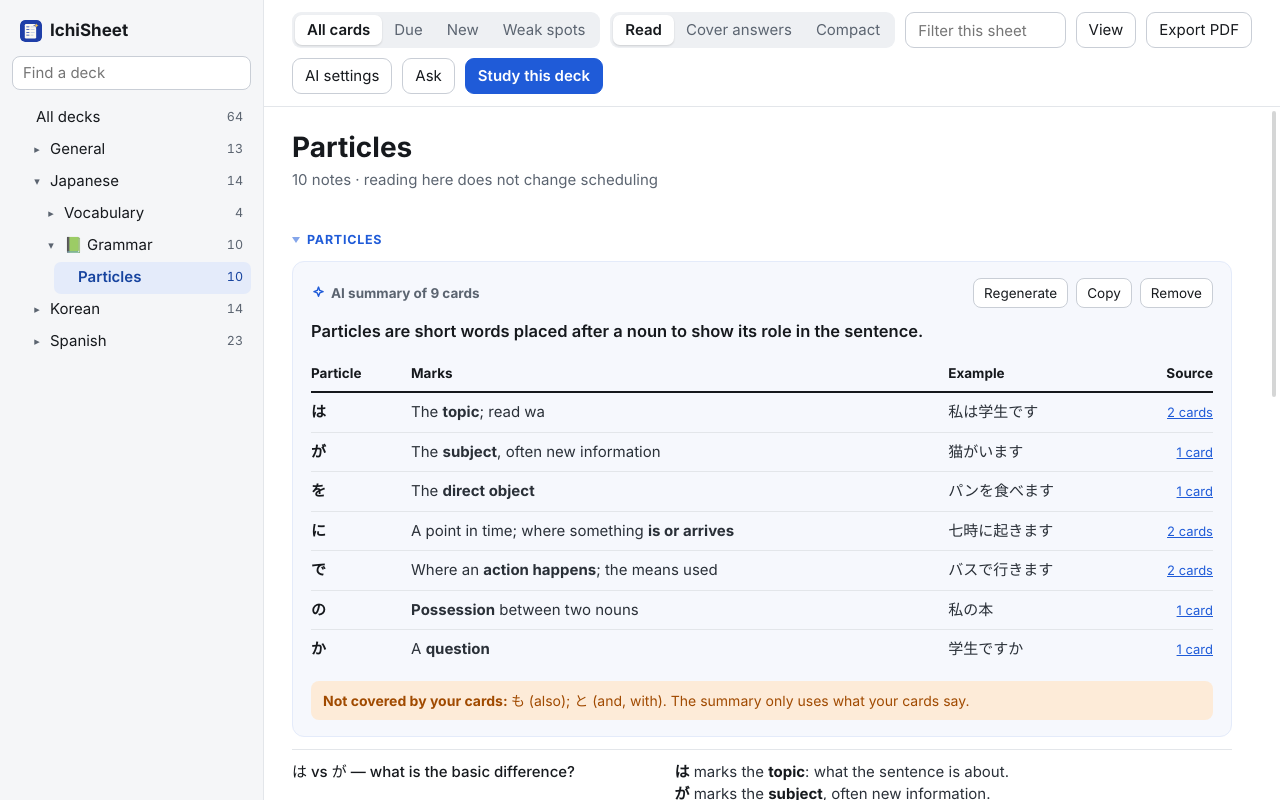
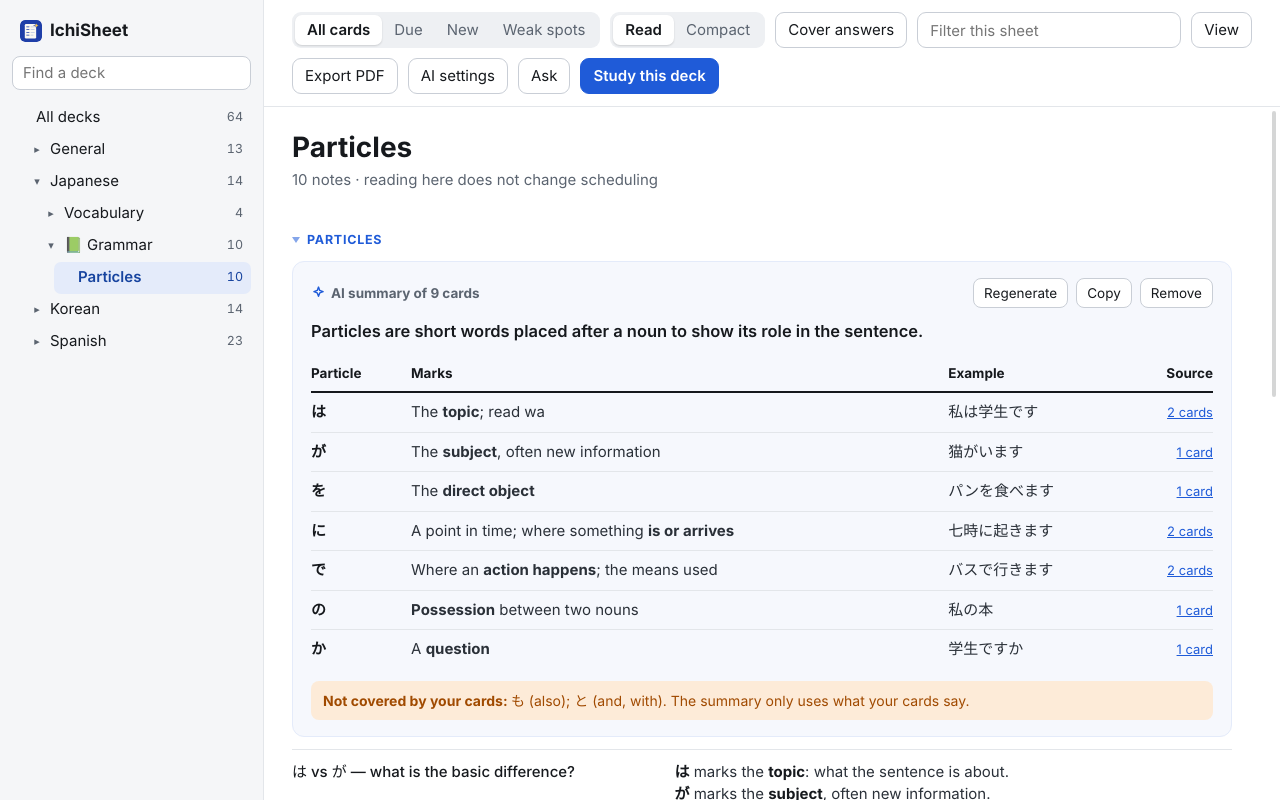
IchiSheet 1.2.0
Cover answers works in Compact, About card from the logo, optional Confetti mode, quieter footer, restart note after updates.

Claude-Session: https://claude.ai/code/session_0131ku1EZf9DxhiT72YsnyNj

diff --git a/anki_sheets/web/sheet.js b/anki_sheets/web/sheet.js
@@ -1,12 +1,12 @@
 var Sheets = (function () {
   var VIEW_DEFAULTS = { ticks: false, hideTicked: false, density: "comfortable", emphasis: "question",
-                        theme: "anki", notesOpen: false, split: null, side: null, page: null };
+                        theme: "anki", notesOpen: false, split: null, side: null, page: null, confetti: false };
   var S = { tree: [], deck: null, scope: "all", mode: "read", groups: {}, limit: null,
             filter: "", deckFilter: "", open: {}, data: null, view: Object.assign({}, VIEW_DEFAULTS), viewOpen: false,
             ai: { enabled: false, ready: false, never_send_decks: [], max_cards: 200 },
             fold: {}, askOpen: false, chat: [], strict: false, cond: {}, pending: {}, seq: 0 };
   var SCOPES = [["all", "All cards"], ["due", "Due"], ["new", "New"], ["weak", "Weak spots"]];
-  var MODES = [["read", "Read"], ["cover", "Cover answers"], ["compact", "Compact"]];
+  var MODES = [["read", "Read"], ["compact", "Compact"]];
   var DENSITY = [["comfortable", "Comfortable"], ["tight", "Tight"]];
   var EMPHASIS = [["question", "Bold question"], ["tint", "Tinted question"], ["answer", "Bold answer"]];
   var THEMES = [["anki", "Match Anki"], ["paper", "Paper"], ["contrast", "High contrast"]];
@@ -102,7 +102,36 @@ var Sheets = (function () {
     '<g fill="#1f3fa8"><rect x="144" y="150" width="78" height="18" rx="9"/><rect x="144" y="214" width="78" height="18" rx="9"/><rect x="144" y="278" width="78" height="18" rx="9"/><rect x="144" y="342" width="78" height="18" rx="9"/></g>' +
     '<g fill="#b9c3de"><rect x="244" y="150" width="100" height="18" rx="9"/><rect x="244" y="214" width="100" height="18" rx="9"/><rect x="244" y="278" width="100" height="18" rx="9"/><rect x="244" y="342" width="72" height="18" rx="9"/></g>' +
     '<path d="M384 62 C392 108 404 120 450 128 C404 136 392 148 384 194 C376 148 364 136 318 128 C364 120 376 108 384 62 Z" fill="#ffc94a" stroke="#1f3fa8" stroke-width="12" stroke-linejoin="round"/></svg>';
-  function brand() { return h("h1", { class: "brand" }, h("span", { html: LOGO }), "IchiSheet"); }
+  function brand() {
+    return h("h1", { class: "brand" },
+      h("button", { class: "brandbtn", type: "button", id: "about", title: "About IchiSheet", onclick: openAbout },
+        h("span", { html: LOGO }), "IchiSheet"));
+  }
+  function extLink(to, label, tip) {
+    return h("a", { href: "#", title: tip, onclick: function (e) { e.preventDefault(); call("link", { to: to }); } }, label);
+  }
+  // A small "about" card, opened from the logo.
+  function openAbout() {
+    if (app.querySelector(".about")) return;
+    function close() { overlay.remove(); var b = document.getElementById("about"); if (b) b.focus(); }
+    var overlay = h("div", { class: "overlay", onclick: function (e) { if (e.target === overlay) close(); },
+      onkeydown: function (e) { if (e.key === "Escape") { e.preventDefault(); e.stopPropagation(); close(); } } },
+      h("div", { class: "modal about", role: "dialog", "aria-modal": "true", "aria-labelledby": "about-title" },
+        h("div", { class: "about-logo", html: LOGO }),
+        h("h2", { id: "about-title", text: "IchiSheet" }),
+        h("p", { class: "about-made", text: "Made by StarHug" + (S.version ? " · version " + S.version : "") }),
+        h("p", { class: "about-say" }, "Your whole deck on one sheet. “Ichi” is Japanese for “one”."),
+        h("p", { class: "about-say" }, "IchiSheet is free. If it helps you study, you can ",
+          extLink("support", "buy me a coffee", "Opens my Ko-fi page"), " or ",
+          extLink("rate", "rate it on AnkiWeb", "A thumbs up on AnkiWeb helps other students find IchiSheet"), "."),
+        h("p", { class: "about-small" },
+          extLink("issues", "Found a bug?", "Opens the issue page on GitHub"), " · ",
+          extLink("source", "Source code", "Opens the project on GitHub"), " · Open source, AGPL-3.0-or-later"),
+        h("div", { class: "modal-foot" },
+          h("button", { class: "btn primary", type: "button", id: "about-close", onclick: close }, "Close"))));
+    app.appendChild(overlay);
+    document.getElementById("about-close").focus();
+  }
   function title() { return S.home ? "IchiSheet" : S.deck ? S.deck.split("::").pop() : "All decks"; }
   function allRows() {
     var out = [];
@@ -179,7 +208,7 @@ var Sheets = (function () {
   }
 
   function mainClass() {
-    return "main mode-" + S.mode + " em-" + S.view.emphasis +
+    return "main mode-" + S.mode + (S.cover ? " mode-cover" : "") + " em-" + S.view.emphasis +
       (S.view.density === "tight" ? " dense" : "") + (S.view.ticks ? " ticks-on" : "");
   }
 
@@ -358,6 +387,9 @@ var Sheets = (function () {
       checkV("ticks", "Review ticks", "v-ticks",
         "Adds a tick box to every row so you can check off what you have read. Does not affect Anki's scheduling.",
         function () { renderSheet(true); }),
+      checkV("confetti", "Confetti", "v-confetti",
+        "A little burst of confetti when you reveal an answer in Cover answers, and a bigger one for the last answer on the sheet.",
+        function () {}),
       h("div", { class: "vrow", title: "If the wrong part of a card shows as the answer, choose here which field is the question and which is the answer" },
         h("span", { text: "Card fields" }),
         h("button", { class: "btn small", type: "button", id: "fields", disabled: !(S.data && S.data.note_types && S.data.note_types.length),
@@ -376,6 +408,7 @@ var Sheets = (function () {
             S.view = Object.assign({}, VIEW_DEFAULTS);
             S.groups = {};
             S.mode = "read";
+            S.cover = false;
             applyView();
             save();
             renderBar();
@@ -385,10 +418,11 @@ var Sheets = (function () {
         h("button", { class: "btn small", type: "button", id: "refresh",
           title: "Reload decks and cards from Anki", onclick: function () { S.viewOpen = false; init(); } }, "Refresh from Anki")),
       h("div", { class: "vsupport" },
-        h("span", { text: "IchiSheet" + (S.version ? " " + S.version : "") + " by StarHug" }),
-        link("rate", "Rate on AnkiWeb", "A thumbs up on AnkiWeb helps other students find IchiSheet"),
-        link("issues", "Report a problem", "Opens the issue page on GitHub"),
-        link("support", "Buy me a coffee", "IchiSheet is free. A coffee helps keep it maintained")));
+        h("p", {}, "IchiSheet is free. If it helps you study, you can ",
+          link("support", "buy me a coffee", "Opens my Ko-fi page"), " or ",
+          link("rate", "rate it on AnkiWeb", "A thumbs up on AnkiWeb helps other students find IchiSheet"), "."),
+        h("p", { class: "vmade" }, "Made by StarHug" + (S.version ? " · version " + S.version : "") + " · ",
+          link("issues", "Found a bug?", "Opens the issue page on GitHub"))));
     function link(to, label, tip) {
       return h("a", { href: "#", title: tip, onclick: function (e) { e.preventDefault(); call("link", { to: to }); } }, label);
     }
@@ -453,10 +487,36 @@ var Sheets = (function () {
     row.appendChild(h("button", { class: "edit", type: "button", title: "Open this note in the browser",
       onclick: function (e) { e.stopPropagation(); call("edit", { nid: r.nid }); } }, "Edit"));
     row.addEventListener("click", function (e) {
-      if (S.mode !== "cover" || e.target.closest("a, .snd") || e.target.tagName === "IMG") return;
-      row.classList.toggle("shown");
+      if (!S.cover || e.target.closest("a, .snd, .tick") || e.target.tagName === "IMG") return;
+      var shown = row.classList.toggle("shown");
+      if (shown && S.view.confetti) {
+        var left = [].some.call(app.querySelectorAll(".row"), function (r) { return !r.hidden && r.offsetParent && !r.classList.contains("shown"); });
+        if (left) confetti(e.clientX, e.clientY, 14); else confetti(window.innerWidth / 2, window.innerHeight / 3, 70);
+      }
     });
     return row;
+  }
+
+  // Confetti mode: a small burst where you reveal an answer, a bigger one for the last answer on the sheet.
+  var CONFETTI = ["#1f3fa8", "#ffc94a", "#e8590c", "#2f9e44", "#ae3ec9", "#1c7ed6"];
+  function confetti(x, y, n) {
+    if (window.matchMedia && window.matchMedia("(prefers-reduced-motion: reduce)").matches) return;
+    var box = h("div", { class: "confetti", "aria-hidden": "true" }), big = n > 30;
+    for (var i = 0; i < n; i++) {
+      var bit = h("i", {}), ang = Math.random() * Math.PI * 2, dist = (big ? 140 : 46) + Math.random() * (big ? 260 : 60);
+      var dx = Math.cos(ang) * dist, dy = Math.sin(ang) * dist - (big ? 80 : 30), fall = (big ? 260 : 70) + Math.random() * 80;
+      bit.style.left = x + "px"; bit.style.top = y + "px";
+      bit.style.background = CONFETTI[i % CONFETTI.length];
+      if (i % 3 === 0) bit.style.borderRadius = "50%";
+      box.appendChild(bit);
+      bit.animate([
+        { transform: "translate(0,0) rotate(0deg)", opacity: 1 },
+        { transform: "translate(" + dx + "px," + dy + "px) rotate(" + (Math.random() * 540 - 270) + "deg)", opacity: 1, offset: 0.45 },
+        { transform: "translate(" + dx * 1.15 + "px," + (dy + fall) + "px) rotate(" + (Math.random() * 900 - 450) + "deg)", opacity: 0 }
+      ], { duration: (big ? 1700 : 850) + Math.random() * 300, easing: "cubic-bezier(.2,.7,.3,1)", fill: "forwards" });
+    }
+    document.body.appendChild(box);
+    setTimeout(function () { box.remove(); }, big ? 2200 : 1300);
   }
 
   function highlight(nids) {
@@ -1034,7 +1094,10 @@ var Sheets = (function () {
     var bar = app.querySelector(".bar");
     var filter = h("input", { class: "filter", type: "search", placeholder: "Filter this sheet", "aria-label": "Filter this sheet",
       title: "Type a word to show only the rows that contain it", value: S.filter, oninput: function (e) { S.filter = e.target.value; applyFilter(); } });
-    var reveal = S.mode === "cover" ? h("button", { class: "btn", type: "button", id: "reveal", title: "Show every hidden answer, or hide them all again",
+    var cover = h("button", { class: "btn" + (S.cover ? " on" : ""), type: "button", id: "cover", "aria-pressed": String(!!S.cover),
+      title: HINT.cover + ". Works in Read and Compact", onclick: toggleCover }, "Cover answers");
+    cover.setAttribute("data-mode", "cover");
+    var reveal = S.cover ? h("button", { class: "btn", type: "button", id: "reveal", title: "Show every hidden answer, or hide them all again",
       onclick: function () {
         var rows = app.querySelectorAll(".row"), on = !app.querySelector(".row.shown");
         rows.forEach(function (r) { r.classList.toggle("shown", on); });
@@ -1046,7 +1109,7 @@ var Sheets = (function () {
     put(bar, [
       seg(SCOPES, "scope", "Which cards", function (v) { S.scope = v; S.limit = null; S.maxChars = null; save(); renderBar(); load(); }),
       seg(MODES, "mode", "View mode", setMode),
-      reveal, filter,
+      cover, reveal, filter,
       h("button", { class: "btn" + (S.viewOpen ? " on" : ""), type: "button", id: "view", "aria-expanded": String(S.viewOpen),
         title: "Layout options: sections, spacing, emphasis, theme, notes and review ticks",
         onclick: function () { S.viewOpen = !S.viewOpen; renderView(); renderBar(); } }, "View"),
@@ -1055,6 +1118,14 @@ var Sheets = (function () {
       askBtn,
       h("button", { class: "btn primary", type: "button", id: "study", title: "Open this deck in Anki's normal flashcard review", onclick: function () { call("study", { deck: S.deck }); } },
         S.deck ? "Study this deck" : "Go to decks")]);
+  }
+
+  function toggleCover() {
+    S.cover = !S.cover;
+    applyView();
+    app.querySelectorAll(".row.shown").forEach(function (r) { r.classList.remove("shown"); });
+    save();
+    renderBar();
   }
 
   function setMode(v) {
@@ -1068,7 +1139,7 @@ var Sheets = (function () {
   // ---------------------------------------------------------------- data
 
   function save() {
-    call("state", { deck: S.deck, scope: S.scope, mode: S.mode, groups: S.groups, view: S.view,
+    call("state", { deck: S.deck, scope: S.scope, mode: S.mode, cover: !!S.cover, groups: S.groups, view: S.view,
       home: !!S.home, pending: loading ? (S.deck || "All decks") : null });
   }
 
@@ -1148,7 +1219,8 @@ var Sheets = (function () {
       if (!S.started) {
         S.deck = known ? st.deck : null;
         S.scope = st.scope || "all";
-        S.mode = st.mode || "read";
+        S.cover = st.mode === "cover" || !!st.cover;   // "cover" used to be a third mode
+        S.mode = st.mode === "compact" ? "compact" : "read";
         S.groups = Object.assign({}, st.groups || {});
         S.view = Object.assign({}, VIEW_DEFAULTS, st.view || {});
         // start on a deck only if one was open last time and it finished opening

diff --git a/anki_sheets/web/sheet.css b/anki_sheets/web/sheet.css
@@ -55,6 +55,20 @@ body.nightMode #app.theme-contrast, body.night_mode #app.theme-contrast {
 .side { flex: 0 0 264px; display: flex; flex-direction: column; gap: 12px; padding: 18px 12px;
   border-right: 1px solid var(--line); overflow-y: auto; }
 .side h1 { margin: 0 8px; font-size: 17px; font-weight: 650; }
+.brandbtn:not(#x) { display: flex; align-items: center; gap: 8px; padding: 2px 6px 2px 2px !important; margin: -2px -6px -2px -2px !important; border: 0 !important;
+  border-radius: 8px !important; background: none !important; font-weight: inherit !important; }
+.brandbtn:not(#x):hover { background: var(--chip) !important; }
+.modal.about { max-width: 400px; margin-top: 8vh; text-align: center; }
+.about-logo .logo { width: 64px; height: 64px; border-radius: 15px; }
+.about h2 { margin: 10px 0 2px; }
+.about p { margin: 0; }
+.about-made { color: var(--muted); font-size: 13px; }
+.about-say { margin-top: 12px !important; line-height: 1.5; }
+.about-small { margin-top: 14px !important; color: var(--muted); font-size: 12px; }
+.about a { color: var(--ink); text-decoration: underline; text-decoration-color: var(--muted); text-underline-offset: 2px; }
+.about a:hover { color: var(--accent); }
+.about-small a { color: inherit; }
+.about .modal-foot { justify-content: center; }
 .brand { display: flex; align-items: center; gap: 8px; }
 .brand span { display: inline-flex; }
 .logo { width: 22px; height: 22px; flex: none; border-radius: 5px; }
@@ -116,8 +130,15 @@ body.nightMode #app.theme-contrast, body.night_mode #app.theme-contrast {
 .vrow { display: flex; flex-wrap: wrap; align-items: center; justify-content: space-between; gap: 6px 12px; }
 .vrow > span { font-weight: 600; font-size: 13.5px; }
 .vrow select { height: 32px; }
-.vsupport { display: flex; flex-wrap: wrap; gap: 4px 14px; margin-top: 10px; font-size: 12.5px; color: var(--muted); }
-.vsupport a { color: var(--accent); }
+/* a footnote, not a call to action: same grey as the text around it, colour only on hover */
+.vsupport { margin-top: 0; padding-top: 10px; border-top: 1px solid var(--line); font-size: 12.5px; line-height: 1.45; color: var(--muted); }
+.vsupport p { margin: 0; }
+.vsupport .vmade { margin-top: 3px; font-size: 11px; }
+.vsupport .vmade a { color: inherit; }
+.vsupport a { color: var(--ink); text-decoration: underline; text-decoration-color: var(--muted); text-underline-offset: 2px; }
+.vsupport a:hover, .vsupport a:focus-visible { color: var(--accent); text-decoration-color: currentColor; }
+.vsupport a:focus { outline: none; }
+.vsupport a:focus-visible { outline: 2px solid var(--accent); outline-offset: 2px; border-radius: 3px; }
 .vfoot { display: flex; flex-wrap: wrap; gap: 8px; justify-content: space-between; padding-top: 10px; border-top: 1px solid var(--line); }
 
 /* ---------- sheet ---------- */
@@ -225,6 +246,8 @@ body.nightMode #app.theme-contrast, body.night_mode #app.theme-contrast {
 .mode-cover .row:not(.shown) .cz { color: transparent; background: var(--line2); user-select: none; }
 .mode-cover .row:not(.shown) .cz img { visibility: hidden; }
 .mode-cover .row:not(.shown) .full .det { filter: blur(7px); opacity: .45; }
+.confetti { position: fixed; inset: 0; z-index: 50; pointer-events: none; overflow: hidden; }
+.confetti i { position: absolute; width: 7px; height: 10px; margin: -5px 0 0 -3px; border-radius: 1.5px; will-change: transform, opacity; }
 .mode-cover .sum { display: none; }  /* a summary would give the answers away */
 
 /* ---------- compact mode: cheat-sheet density ---------- */
@@ -365,7 +388,7 @@ body.nightMode #app.theme-contrast, body.night_mode #app.theme-contrast {
   body.nightMode #app#app:not(.theme-paper), body.night_mode #app#app:not(.theme-paper) {
     --ink: #16191d; --ink2: #2a3038; --muted: #5b6470; --line: #e3e6ea; --line2: #c9ced6; --accent: #1f5bd8; --accent-bg: #e4ebfa;
     --accent-ink: #17449f; --warn: #a04a00; --warn-bg: #fdebd8; --chip: #eef0f3; --on-accent: #fff; color-scheme: light; }
-  .fold .caret, .side, .sidegrip, .pagegrip, .bar, .edit:not(#x), .chip:not(#x), .notice, .snd, .ask, .overlay, .lightbox, .viewpanel, .viewveil, .tickbar,
+  .confetti, .fold .caret, .side, .sidegrip, .pagegrip, .bar, .edit:not(#x), .chip:not(#x), .notice, .snd, .ask, .overlay, .lightbox, .viewpanel, .viewveil, .tickbar,
   .sum-actions, .cond, .src:not(#x), .srcc, .fatal { display: none !important; }
   .main { display: block; }
   .scroll { display: block; overflow: visible !important; padding: 0; container-type: normal; }

diff --git a/demo/driver/__init__.py b/demo/driver/__init__.py
@@ -175,8 +175,23 @@ class Driver:
         s = yield from self.snapshot()
         log("clicking a row reveals just that answer", s["blurred"] == 8, s["blurred"])
 
-        # 6. weak spots
+        # 5b. Cover answers also works in Compact, and Confetti mode fires on a reveal
+        yield from self.click('button[data-mode="compact"]', 900)
+        both = yield from self.js("JSON.stringify([document.querySelector('.main').className.indexOf('mode-compact') >= 0, document.querySelector('.main').className.indexOf('mode-cover') >= 0, document.querySelectorAll('.row.shown').length])")
+        log("Cover answers stays on in Compact", json.loads(both)[:2] == [True, True], both)
+        yield from self.js("Sheets.state.view.confetti = true; 1")
+        yield from self.click(".row:nth-child(2) .q", 250)
+        bits = yield from self.js("document.querySelectorAll('.confetti i').length")
+        yield 1600
+        after = yield from self.js("document.querySelectorAll('.confetti').length")
+        yield from self.js("Sheets.state.view.confetti = false; 1")
+        yield from self.click(".row:nth-child(4) .q", 250)
+        off = yield from self.js("document.querySelectorAll('.confetti i').length")
+        log("Confetti mode shows a small burst on a reveal, cleans up, and is silent when off", bits == 14 and after == 0 and off == 0, [bits, after, off])
         yield from self.click('button[data-mode="read"]', 600)
+
+        # 6. weak spots
+        yield from self.click('button[data-mode="cover"]', 600)
         yield from self.click('button[data-scope="weak"]', 2000)
         mark("weak")
         s = yield from self.snapshot()

diff --git a/demo/driver_shots/__init__.py b/demo/driver_shots/__init__.py
@@ -21,12 +21,15 @@ def start():
         (2500, None, "1-read"),
         (300, "document.querySelector('button[data-mode=cover]').click(); setTimeout(function(){var r=document.querySelectorAll('.row'); r[0].click(); r[2].click();},300)", None),
         (1500, None, "2-cover"),
-        (300, "document.querySelector('button[data-mode=read]').click(); document.querySelector('.cond').click()", None),
+        (300, "document.querySelector('button[data-mode=cover]').click(); document.querySelector('.cond').click()", None),
         (3000, None, "3-condense"),
         (300, "Sheets.selectDeck('General::Maths')", None),
         (3000, None, "4-formulas"),
         (300, "Sheets.selectDeck('Spanish'); setTimeout(function(){document.querySelector('button[data-mode=compact]').click()},1200)", None),
         (3000, None, "5-compact"),
+        (300, "document.querySelector('button[data-mode=cover]').click(); setTimeout(function(){var r=document.querySelectorAll('.row'); r[0].click(); r[3].click();},300)", None),
+        (1500, None, "5b-compact-cover"),
+        (300, "document.querySelector('button[data-mode=cover]').click()", None),
         (300, "document.querySelector('button[data-mode=read]').click(); Sheets.state.view.ticks=true; Sheets.state.view.theme='paper'; Sheets.state.view.emphasis='tint'; Sheets.reload().then(function(){Sheets.selectDeck(%s)})" % json.dumps(KO), None),
         (3200, "document.querySelectorAll('.tick input')[0].click(); document.querySelectorAll('.tick input')[2].click(); document.getElementById('view').click()", None),
         (1500, None, "6-ticks-and-view"),

diff --git a/demo/driver_dark/__init__.py b/demo/driver_dark/__init__.py
@@ -1,0 +1,22 @@
+"""Screenshot of the View panel in Anki's dark mode. Not part of the add-on."""
+import json, os
+from aqt import gui_hooks, mw
+from aqt.qt import QTimer
+OUT = os.path.join(os.environ.get("SHEETS_DEMO_OUT", "/tmp/sheets-shots"), "shots")
+def start():
+    os.makedirs(OUT, exist_ok=True)
+    from aqt.theme import Theme, theme_manager
+    mw.pm.set_theme(Theme.DARK); theme_manager.apply_style()
+    next(a for a in mw.form.menuTools.actions() if a.text() == "IchiSheet").trigger()
+    from anki_sheets import dialog
+    d = dialog._dialog
+    d.setGeometry(0, 0, 1280, 800)
+    def view():
+        d.web.eval("[].filter.call(document.querySelectorAll('.bar button'), function(b){return b.textContent.trim()==='View'})[0].click()")
+        def about():
+            d.web.grab().save(os.path.join(OUT, "dark-view.png"))
+            d.web.eval("document.getElementById('view').click(); document.getElementById('about').click()")
+            QTimer.singleShot(1000, lambda: (d.web.grab().save(os.path.join(OUT, "dark-about.png")), QTimer.singleShot(300, mw.unloadProfileAndExit)))
+        QTimer.singleShot(1200, about)
+    QTimer.singleShot(2500, lambda: (d.web.eval("Sheets.selectDeck(%s)" % json.dumps("Spanish")), QTimer.singleShot(2000, view)))
+gui_hooks.main_window_did_init.append(lambda: QTimer.singleShot(1500, start))

diff --git a/anki_sheets/dialog.py b/anki_sheets/dialog.py
@@ -111,7 +111,12 @@ class SheetDialog(QDialog):
         _, name, *rest = cmd.split(":", 2)
         try:
             arg = json.loads(rest[0]) if rest and rest[0] else {}
-            return getattr(self, "cmd_" + name)(arg)
+            handler = getattr(self, "cmd_" + name, None)
+            if handler is None:
+                # the page is newer than the running code: Anki updated the add-on but has not restarted
+                tooltip("IchiSheet was updated. Restart Anki to finish the update.", period=6000, parent=self)
+                return None
+            return handler(arg)
         except Exception as e:
             # never leave the page waiting on a reply: hand the problem back so it can be shown
             import traceback
@@ -231,10 +236,11 @@ class SheetDialog(QDialog):
         "rate": "https://ankiweb.net/shared/info/2018832541",
         "issues": "https://github.com/StarHug/anki-sheets/issues",
         "support": "https://ko-fi.com/starsight",
+        "source": "https://github.com/StarHug/anki-sheets",
     }
 
     def cmd_link(self, arg: dict) -> None:
-        url = self.LINKS.get(str(arg.get("to")))  # only these three addresses, never one from the page
+        url = self.LINKS.get(str(arg.get("to")))  # only these fixed addresses, never one from the page
         if url:
             openLink(url)
 

diff --git a/demo/driver_view/__init__.py b/demo/driver_view/__init__.py
@@ -230,6 +230,20 @@ class Driver:
         log("deck search shows the deck's own name first, its parents underneath", json.loads(hit)[0] == "Particles" and "Grammar" in json.loads(hit)[1], hit)
         yield from self.js("var i=document.querySelector('.side input'); i.value=''; i.dispatchEvent(new Event('input')); 1")
 
+        yield from self.click("#about", 500)
+        ab = yield from self.js("var a=document.querySelector('.about'); a ? a.textContent : ''")
+        yield from self.click("#about-close", 400)
+        gone = yield from self.js("!document.querySelector('.about')")
+        log("clicking the logo opens an About card, and Close dismisses it",
+            "Made by StarHug" in ab and "buy me a coffee" in ab and gone, ab[:120])
+        yield from self.js("pycmd('sheets:not_a_real_command:{}'); 1")
+        yield 400
+        import aqt.utils
+        tip = getattr(aqt.utils, "_tooltipLabel", None)
+        alive = yield from self.js("document.querySelectorAll('.row').length > 0")
+        log("a command the running code does not know asks for a restart instead of crashing",
+            bool(tip) and "Restart Anki" in tip.text() and alive, tip.text() if tip else None)
+
         # 4. View menu: spacing, emphasis, theme
         yield from self.click("#view", 1200)
         mark("view")

diff --git a/demo/driver_ai/__init__.py b/demo/driver_ai/__init__.py
@@ -284,7 +284,7 @@ class Driver:
         yield from self.click('button[data-mode="cover"]', 1300)
         shown = yield from self.js("getComputedStyle(document.querySelector('.sum')).display")
         log("Cover answers hides the summary so it can't give answers away", shown == "none", shown)
-        yield from self.click('button[data-mode="read"]', 900)
+        yield from self.click('button[data-mode="cover"]', 900)
 
         from anki_sheets import dialog
         path = os.path.join(os.path.dirname(dialog.__file__), "user_files", "summaries.json")

diff --git a/docs/ankiweb-listing.md b/docs/ankiweb-listing.md
@@ -21,7 +21,7 @@ Flashcards are great for testing yourself, but sometimes you just want to *read*
 **What you get**
 
 - **One page per deck.** Sub-decks are stacked under their own headings. Rows are split into sections by your tags (a tag family such as `topic::…`, or plain tags), or not at all.
-- **Three ways to read.** *Read* shows everything. *Cover answers* hides answers until you click a row, for a quick self-test. *Compact* is a dense multi-column layout for printing.
+- **Read, self-test, or print.** *Read* shows everything. *Compact* is a dense multi-column layout for printing. *Cover answers* works with either: it hides answers until you click a row, for a quick self-test.
 - **Filters.** All cards, Due, New, or Weak spots (cards you keep forgetting, worst first). Type in the filter box to narrow further.
 - **Notes and pictures.** Extra notes and pictures sit behind a "Note" button, and any picture opens full size. Sound files get a play button. Formulas (MathJax) and image-occlusion cards are supported.
 - **Review ticks (optional).** Turn on tick boxes to check off rows as you read them. Ticks are a personal checklist and do not affect scheduling.
@@ -77,6 +77,8 @@ If you'd like to help cover the cost of building and maintaining it, you can buy
 Thank you!
 
 **Changelog**
+
+1.2.0: Cover answers now works in Compact too (it is a switch next to Read and Compact). Click the logo for an About card. Optional Confetti mode in View: a little burst when you reveal an answer, off by default. The note at the bottom of the View panel is quieter. If Anki has updated IchiSheet but not been restarted yet, you now get a "restart Anki" note instead of an error window.
 
 1.1.0: new name. Sheets is now IchiSheet ("ichi" is Japanese for "one": your whole deck on one sheet). Nothing else changes; find it under Tools → IchiSheet.
 
